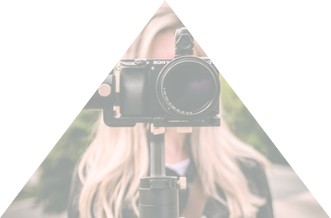
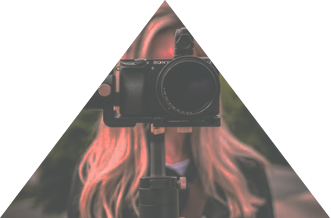
fixes done

diff --git a/style.css b/style.css
@@ -203,8 +203,9 @@ body{
 }
 
 .avatar-details h1{
+    font-family: 'arconregular';
     font-size: 50px;
-    font-weight: 500;
+    font-weight: 600;
 }
 .avatar-details h3{
     font-size: 28px;
@@ -244,7 +245,7 @@ body{
 }
 
 .main-avatar-img{
-    height: 100vh;
+    height: 101vh;
     position:fixed;
     left:55%;
     z-index: -21;
@@ -296,6 +297,7 @@ body{
     font-size: 25px;
     width: 331px;
     height: 218px;
+    color:#AFC9FD;
     line-height: 13;
     background-image: url('lib/img/videoedit.png');
     background-size: cover;
@@ -307,6 +309,7 @@ body{
     margin-top: 3%;
     background-image: url('lib/img/graphic.png');
     font-size: 35px;
+    color:#AFC9FD;
     height: 187px;
     line-height: 5;
     width: 682px;
@@ -320,6 +323,7 @@ body{
     background-image: url('lib/img/uiux.png');
     font-size: 45px;
     height: 142px;
+    color:#AFC9FD;
     line-height: 3;
     width: 976px;
     clip-path: polygon(15% 0, 85% 0, 96% 100%, 0 130%);
